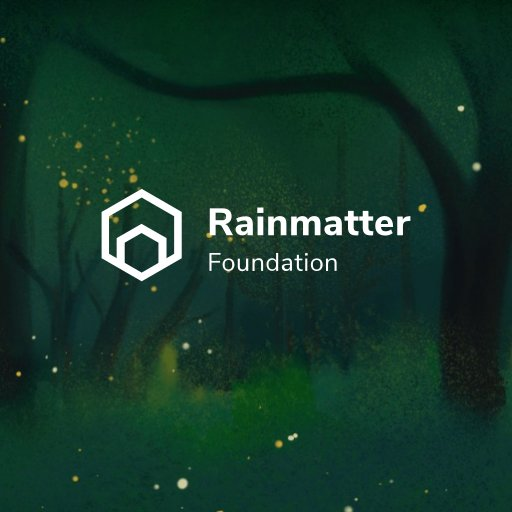
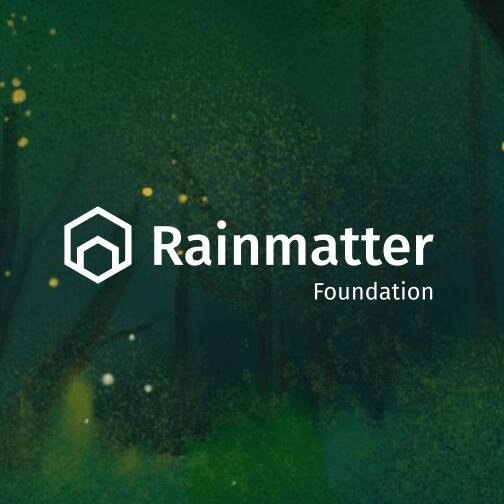
Update OG image thumbnail.

diff --git a/layouts/partials/header.html b/layouts/partials/header.html
@@ -33,7 +33,7 @@
 	{{ printf `<link rel="%s" type="%s" href="%s" title="%s" />` .Rel .MediaType.Type .Permalink $.Site.Title | safeHTML }}
 	{{ end -}}
 
-	<meta property="og:image" content="{{ .Site.BaseURL }}/static/images/thumb.png">
+	<meta property="og:image" content="{{ .Site.BaseURL }}/static/images/thumb.jpg">
 
 	<link rel="preconnect" href="https://fonts.gstatic.com">
 	<link href="https://fonts.googleapis.com/css2?family=Inter:wght@400;600&family=Playfair+Display:wght@600&display=swap"
